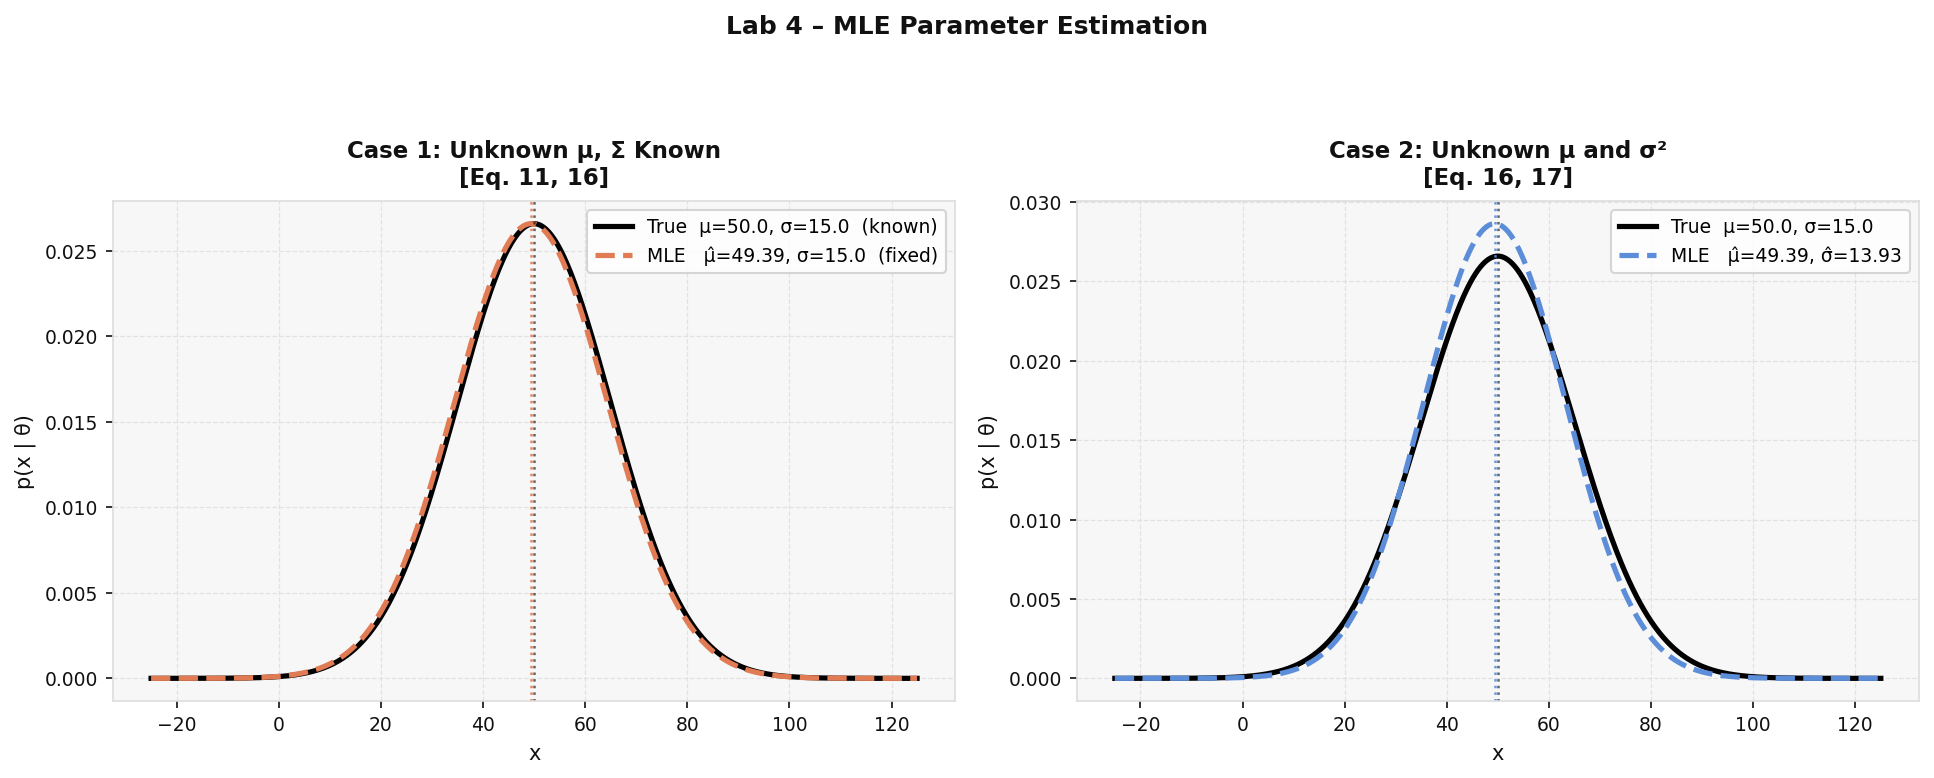
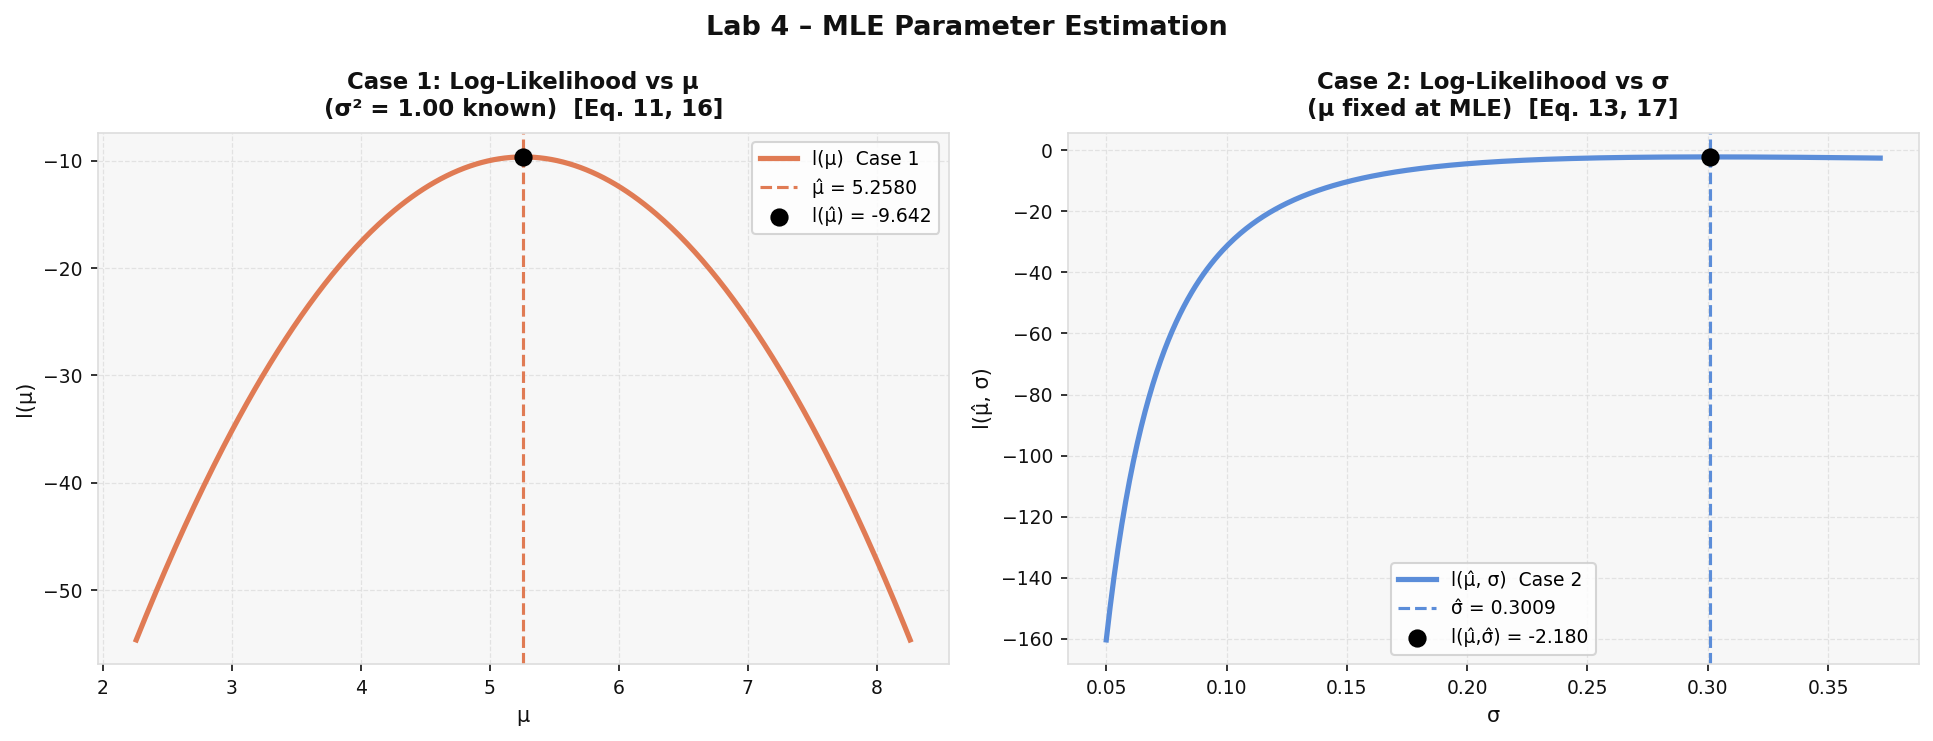
lab 5 uploaded

diff --git a/lab5/lab5.py b/lab5/lab5.py
@@ -1,0 +1,102 @@
+import math
+import numpy as np
+import matplotlib
+matplotlib.use('Agg')
+import matplotlib.pyplot as plt
+
+np.random.seed(42)
+
+# 1-D DATA: mixture of two Gaussians 
+N   = 300
+MU1, SIG1, W1 = 20.0, 5.0, 0.4
+MU2, SIG2, W2 = 50.0, 8.0, 0.6
+
+n1 = int(N * W1)
+n2 = N - n1
+data1d = np.concatenate([
+    np.random.normal(MU1, SIG1, n1),
+    np.random.normal(MU2, SIG2, n2)
+])
+np.random.shuffle(data1d)
+
+def true_pdf_1d(x):
+    """Ground-truth mixture PDF."""
+    def g(x, mu, sig):
+        return (1.0 / (sig * math.sqrt(2 * math.pi))) * math.exp(-0.5 * ((x - mu) / sig) ** 2)
+    return W1 * g(x, MU1, SIG1) + W2 * g(x, MU2, SIG2)
+
+def knn_density_1d(x_query, data, k):
+    """
+    Estimate density at x_query using k-NN rule (1-D).
+    Formula: p̂(x) = k / (n * 2 * d_k(x))
+    """
+    n = len(data)
+    distances = np.abs(data - x_query)
+    d_k = np.sort(distances)[k - 1]     # distance to kth nearest neighbour
+    if d_k == 0.0:
+        d_k = 1e-10
+    volume = 2.0 * d_k                    
+    return k / (n * volume)
+
+# Evaluate over a fine grid for each k
+x_grid = np.linspace(data1d.min() - 5, data1d.max() + 5, 500)
+true_pdf_vals = np.array([true_pdf_1d(x) for x in x_grid])
+
+K_VALUES = [1, 5, 15, 30]
+knn_estimates = {}
+for k in K_VALUES:
+    knn_estimates[k] = np.array([knn_density_1d(x, data1d, k) for x in x_grid])
+
+# Mean Squared Error vs true PDF
+mse = {}
+for k in K_VALUES:
+    mse[k] = float(np.mean((knn_estimates[k] - true_pdf_vals) ** 2))
+
+print("=" * 55)
+print("Lab 5 – k-NN Density Estimation (1-D)")
+print("=" * 55)
+print(f"  N={N},  w1={W1} N({MU1}, {SIG1}^2)  +  w2={W2} N({MU2}, {SIG2}^2)")
+for k in K_VALUES:
+    print(f"  k={k:>2d}  ->  MSE = {mse[k]:.6f}")
+
+# PLOTTING 
+BG = 'white'
+PANEL = '#f7f7f7'
+GRID = '#dddddd'
+TEXT = '#111111'
+C_TRUE = '#222222'
+C_HIST = '#b0c4de'
+COLORS_K = ['#e07b54', '#5b8dd9', '#4caf82', '#9b59b6']
+
+def style(ax, title):
+    ax.set_facecolor(PANEL)
+    ax.tick_params(colors=TEXT, labelsize=9)
+    for sp in ax.spines.values():
+        sp.set_edgecolor(GRID)
+    ax.xaxis.label.set_color(TEXT)
+    ax.yaxis.label.set_color(TEXT)
+    ax.set_title(title, color=TEXT, fontsize=10, fontweight='bold', pad=7)
+    ax.grid(color=GRID, linestyle='--', linewidth=0.6, alpha=0.8)
+
+fig, axes = plt.subplots(1, 4, figsize=(17, 4.5))
+fig.patch.set_facecolor(BG)
+
+for ax, k, color in zip(axes, K_VALUES, COLORS_K):
+    ax.hist(data1d, bins=30, density=True, color=C_HIST, alpha=0.45,
+            edgecolor='white', linewidth=0.4, label='Data histogram')
+    ax.plot(x_grid, true_pdf_vals, color=C_TRUE, lw=2.2,
+            label='True PDF', zorder=3)
+    ax.plot(x_grid, knn_estimates[k], color=color, lw=2.2, ls='--',
+            label=f'k-NN  (k={k})', zorder=4)
+    style(ax, f'k = {k}   |   MSE = {mse[k]:.5f}')
+    ax.set_xlabel('x')
+    ax.set_ylabel('Density' if k == K_VALUES[0] else '')
+    ax.legend(fontsize=8, loc='upper right')
+    ax.set_xlim(x_grid[0], x_grid[-1])
+
+fig.suptitle('Lab 5 – Non-Parametric Density Estimation using k-Nearest Neighbours',
+             color=TEXT, fontsize=12, fontweight='bold', y=1.02)
+plt.tight_layout()
+out_path = 'lab5/knn_results.png'
+plt.savefig(out_path, dpi=150, bbox_inches='tight', facecolor=BG)
+print(f"\nFigure saved -> {out_path}")
